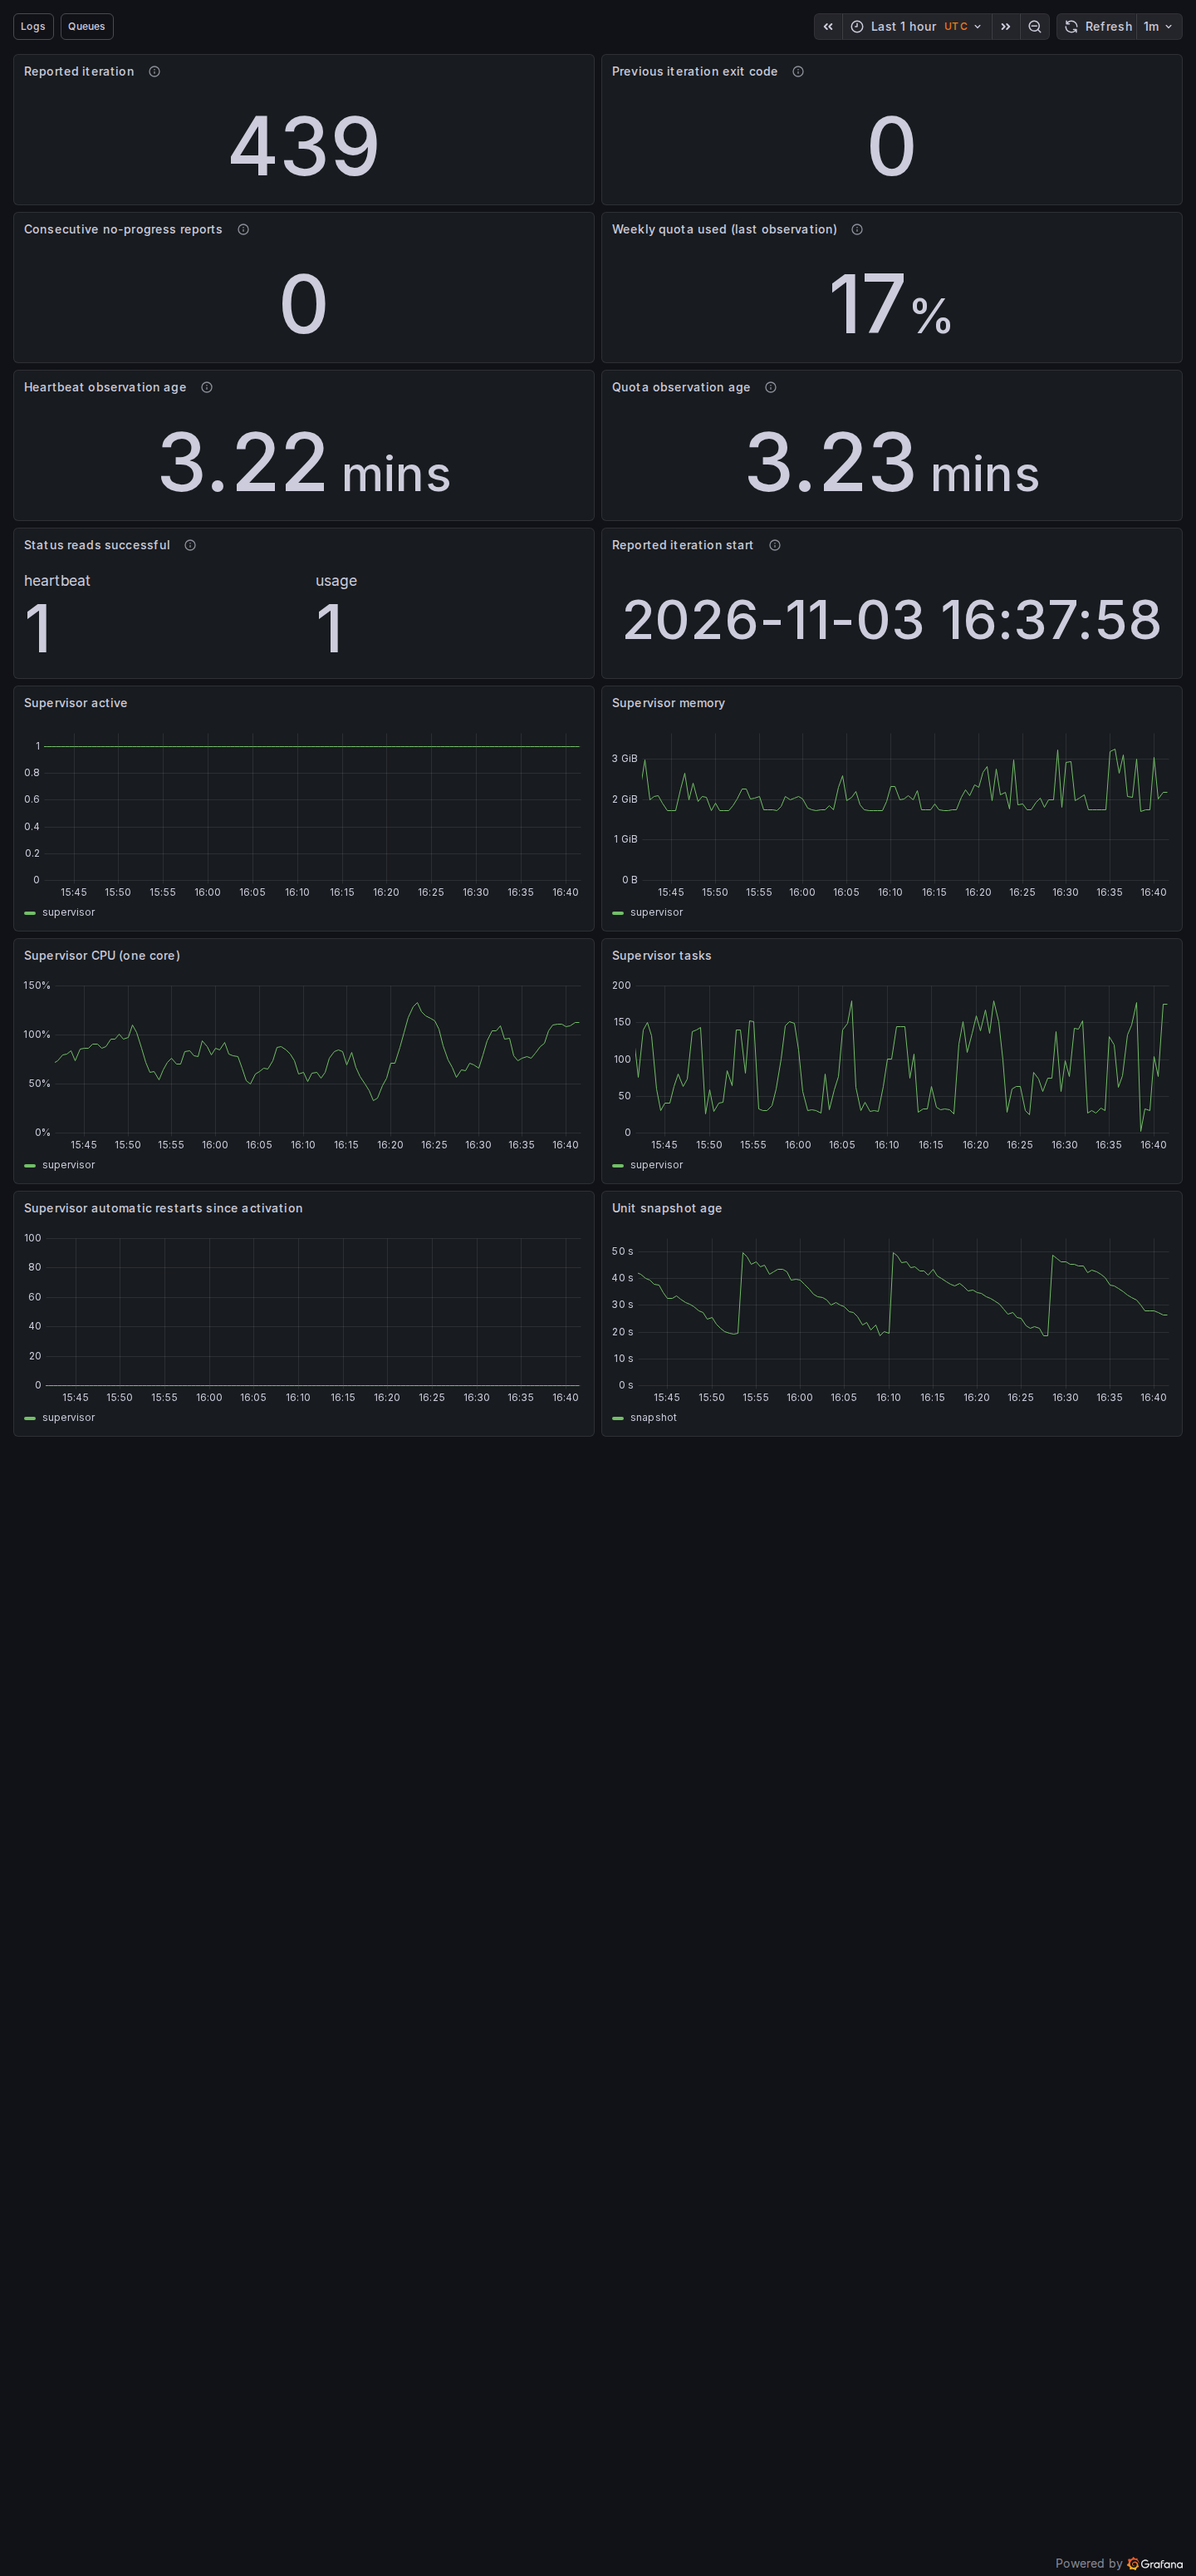
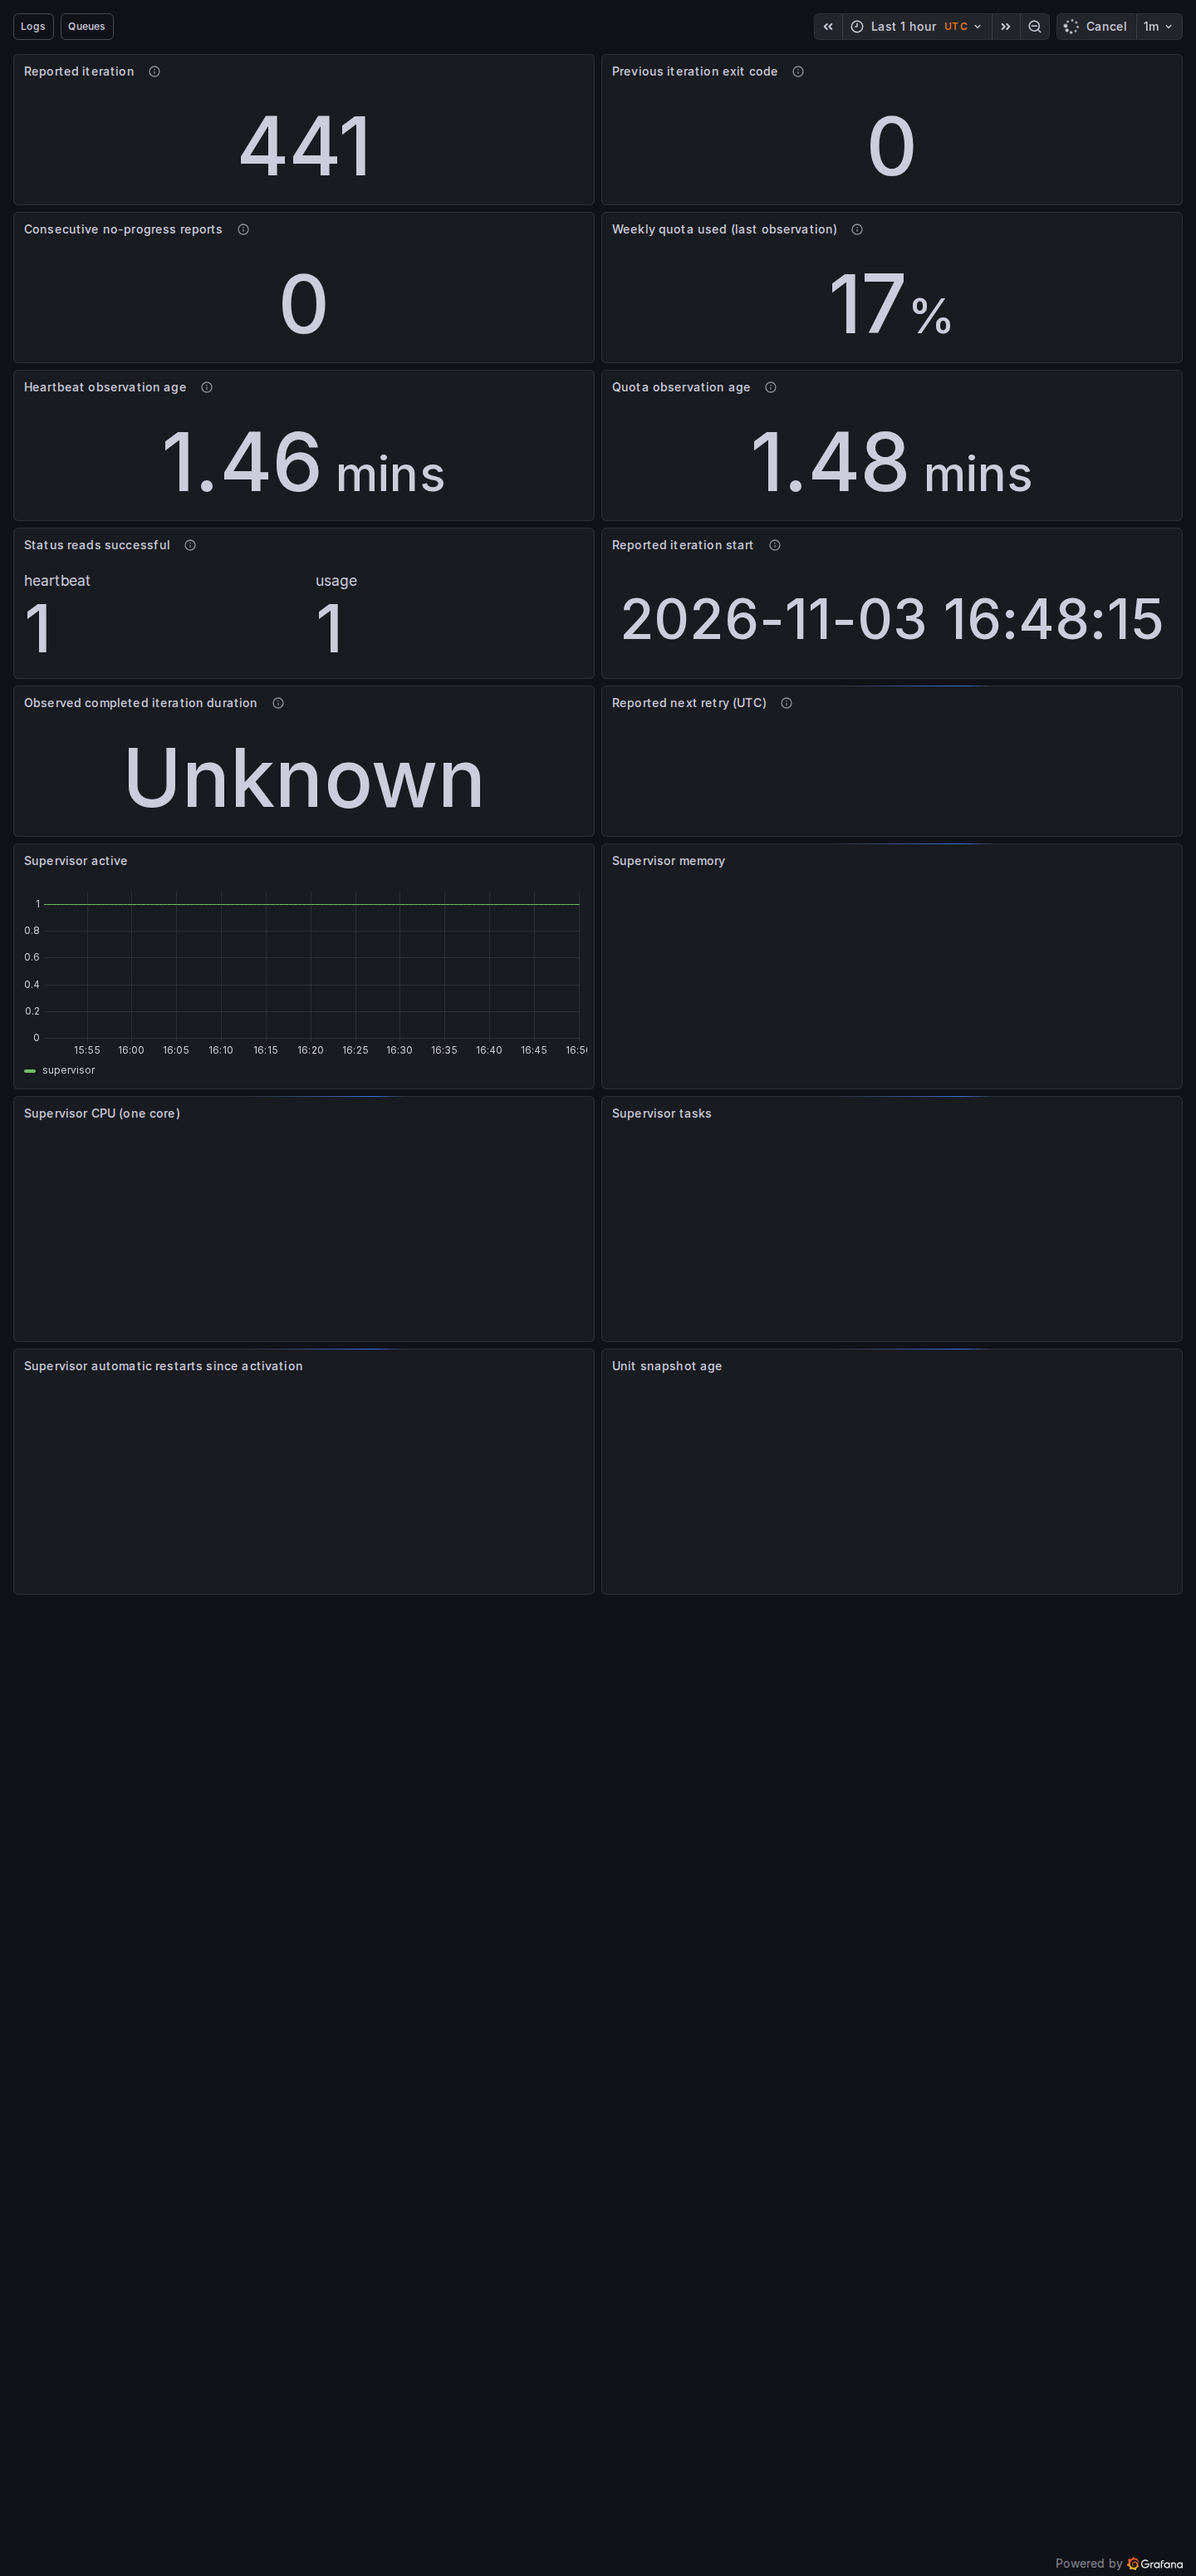
Show optional supervisor duration and retry observations in Grafana

diff --git a/scripts/lib/check-grafana.ts b/scripts/lib/check-grafana.ts
@@ -237,7 +237,13 @@ export async function checkGrafana() {
         assert.equal(result.status, 'success', panel.title);
         if (result.data.result.length > 0) populated++;
         if (dashboard.uid === 'nd-agent') {
-          assert.ok(result.data.result.length > 0, panel.title);
+          if (![15, 16].includes(panel.id))
+            assert.ok(result.data.result.length > 0, panel.title);
+          else {
+            assert.ok(result.data.result.length <= 1, panel.title);
+            assert.equal(panel.fieldConfig.defaults.noValue, 'Unknown');
+            assert.equal(panel.targets[0].instant, true);
+          }
           for (const series of result.data.result)
             assert.ok(Number.isFinite(Number(series.value[1])), panel.title);
         }
@@ -495,6 +501,8 @@ export async function checkGrafana() {
         'Weekly quota used (last observation)',
         'Status reads successful',
         'Reported iteration start',
+        'Observed completed iteration duration',
+        'Reported next retry (UTC)',
       ]) {
         const heading = page.getByRole('heading', { name: title, exact: true });
         for (
@@ -514,6 +522,15 @@ export async function checkGrafana() {
           .count(),
         0,
       );
+      await page
+        .getByRole('heading', {
+          name: 'Observed completed iteration duration',
+          exact: true,
+        })
+        .scrollIntoViewIfNeeded();
+      await page.screenshot({
+        path: 'docs/screenshots/grafana-agent-timing-mobile.png',
+      });
       await page.evaluate(() => window.scrollTo(0, 0));
       await page.mouse.wheel(0, -10000);
       await page.waitForTimeout(500);

diff --git a/docs/observability-plan.md b/docs/observability-plan.md
@@ -220,8 +220,8 @@ only when its check passes.
     redis_exporter. The Postgres restart is scheduled at least 2 h away from
     the edition.
   - **Done when:** the Database dashboard shows the top queries.
-- [ ] **O8 Agent harness metrics.** Done when the Agent dashboard is populated.
-  - Iteration 438: read-only bridge from bounded supervisor heartbeat/usage JSON into the existing atomic node_exporter textfile; no protected harness edits. Iteration, previous result, no-progress streak, start/finish/status timestamps and available weekly quota exposed, with per-file read-success. Offline malformed/privacy tests and live `--verify-o8` checks. Iteration 439 adds eight status/quota/freshness panels with explicit unknown values and read-only desktop/mobile verification. Iteration 440 adds optional completed duration from the same heartbeat’s valid start/finish and reported next-retry time, with offline timezone/reset/malformed cases and live collector checks. Running iterations remove duration; collector snapshots can miss brief completion states. Tokens, commits and cumulative pacing remain unavailable in bounded status; duration/retry dashboard presentation remains open. Never infer counters from systemd or stale heartbeat data.
+- [x] **O8 Agent harness metrics.** Done when the Agent dashboard is populated.
+  - Iteration 438: read-only bridge from bounded supervisor heartbeat/usage JSON into the existing atomic node_exporter textfile; no protected harness edits. Iteration, previous result, no-progress streak, start/finish/status timestamps and available weekly quota exposed, with per-file read-success. Offline malformed/privacy tests and live `--verify-o8` checks. Iteration 439 adds eight status/quota/freshness panels with explicit unknown values and read-only desktop/mobile verification. Iteration 440 adds optional completed duration from the same heartbeat’s valid start/finish and reported next-retry time, with offline timezone/reset/malformed cases and live collector checks. Running iterations remove duration; collector snapshots can miss brief completion states. Tokens, commits and cumulative pacing remain unavailable in bounded status; Iteration 441 adds duration/retry panels with explicit Unknown values and read-only desktop/mobile verification. O8 complete within the available bounded-status scope; unavailable counters are not inferred. Never infer counters from systemd or stale heartbeat data.
 - [ ] **O9 Alerts and `obs` CLI.**
   - Iteration 412: loopback-only, blackhole-notifier vmalert installed with 48 MiB/1% limits. Five rules cover >80% filesystem use, inactive monitored services, failed scrapes, stale/missing service snapshots and host memory pressure. `pnpm obs alerts` reports bounded pending/firing state; AGENTS requires it at iteration start. Synthetic rule fired through the deployed evaluator/CLI and was removed; disk threshold/duration/recovery tests and `--verify-alerts` pass. Job/error-rate/missed-edition/spend/per-service-budget rules remain before O9 completion. No external notifications or app/DB/Redis restarts.
   - Iteration 399: `pnpm obs` ships read-only logs/errors, instant metrics and queue-state queries. Literal message/service/edition filters, bounded log results and offline/runtime verification; alerts and start-of-iteration instructions remain pending. No O9 completion claim.

diff --git a/PROGRESS.md b/PROGRESS.md
@@ -141,3 +141,13 @@ Earlier entries: [progress archive](docs/progress-archive/).
 - pnpm format, pnpm lint:fix, pnpm check (275 unit/176 isolated integration), pnpm build, python3 ops/observability/test-harness-metrics.py, check-observability.ts --verify-o8 and check-handbook.ts 09-observability passed. No UI/diagram changes.
 - Installed only harness-metrics.py and ran obs-unit-metrics.service; timer active. App/DB/Redis unchanged. Zero alerts/dangling volumes; 32 healthy sources, queues available, all-topic articles/stored X. Latest real edition remains 19 stories/11 X posts; no paid calls/new editions.
 - TASKS/plan/handbook updated; archived iterations 426–427 to keep PROGRESS small. Next: scheduled product evidence first; otherwise O8 duration/retry presentation, then O10 browser errors.
+
+## 2026-11-03: iteration 441 — supervisor duration and retry presentation
+
+- Started clean on main; no leftovers. Alerts/health green; product acceptance still awaits the next scheduled edition. Finished O8 within available bounded-status scope under items 24/25.
+- Agent dashboard adds optional completed-iteration duration and reported next-retry UTC panels. Missing samples display Unknown; running iterations remove duration, brief completions may be missed, and retry timestamps can be stale. Tokens/commits/cumulative pacing remain unavailable and uninferred.
+- Read-only checker accepts missing optional samples but requires finite values when present, instant queries and explicit Unknown configuration. Desktop/mobile Playwright checks and three inspected screenshots cover the panels; 16 queries successful, 14 currently populated, two honestly unknown. Viewer grants and Grafana memory (197 MiB) verified.
+- Initial browser check caught provisioning reload lag; rerun passed after hot reload. Installed dashboard JSON only; no service restart needed under STEERING 22. Protected harness files unchanged.
+- pnpm format, pnpm lint:fix, pnpm check, pnpm build, check-observability.ts --verify-o8 --verify-grafana --grafana-agent-only and check-handbook.ts 09-observability passed. No diagram changes.
+- Healthy sources/queues, real articles and stored X across four topics; latest real edition remains Nov 3 15:03 UTC with four topics. Zero alerts/dangling volumes. No paid calls or new editions.
+- TASKS/plan/handbook updated. Next: scheduled social/latency evidence first; otherwise O10 browser errors. O8 is complete with the documented unavailable-counter limits.

diff --git a/TASKS.md b/TASKS.md
@@ -60,4 +60,4 @@ M0–M2; M3/M6/M7 foundations implemented.
 - [ ] STEERING 2a (lower priority): finish repository/HTTP characterization before ORM. Isolated DB/Redis, migrations, HTTP/worker and synthetic-AI goldens implemented (183–270); gaps: [database verification](docs/DATABASE-VERIFICATION.md). No live DB; finish 2a before ORM. Recorded-response golden open.
 - [ ] STEERING 2b (only after 2a is green): record Drizzle decision/schema parity, back up live DB, gradually replace raw SQL behind ports and enforce boundaries.
 
-- [ ] STEERING 24/25 (background while product blocked): [observability plan](docs/observability-plan.md). O1–O7/read-only CLI verified. O9 covers disk/memory, services/scrapes, failed jobs/API errors, spend/holds and observed-due schedule lifecycle gaps (412–419/435; 48-hour retention, scrape-history/edit caveats). O7 adds restricted top statement IDs/timing (436) and capped duration-only app slow-call logs (437; no SQL/parameters; isolated pool/transaction coverage). O8 read-only heartbeat/quota bridge and eight status/freshness dashboard panels verified (438–439); Optional completed-duration/retry gauges added (440); running iterations remove duration, brief completion states may be missed. Tokens/commits/cumulative pacing unavailable in bounded status. Next: O8 duration/retry presentation, then O10 browser errors. Stop refining existing CLI/dashboards; preserve resource caps and scheduled-run protection.
+- [ ] STEERING 24/25 (background while product blocked): [observability plan](docs/observability-plan.md). O1–O7/read-only CLI verified. O9 covers disk/memory, services/scrapes, failed jobs/API errors, spend/holds and observed-due schedule lifecycle gaps (412–419/435; 48-hour retention, scrape-history/edit caveats). O7 adds restricted top statement IDs/timing (436) and capped duration-only app slow-call logs (437; no SQL/parameters; isolated pool/transaction coverage). O8 read-only heartbeat/quota bridge and eight status/freshness dashboard panels verified (438–439); Optional completed-duration/retry gauges added (440); running iterations remove duration, brief completion states may be missed. Tokens/commits/cumulative pacing unavailable in bounded status. O8 duration/retry panels complete (441), with Unknown for absent observations; unavailable counters remain uninferred. Next: O10 browser errors. Stop refining existing CLI/dashboards; preserve resource caps and scheduled-run protection.

diff --git a/docs/handbook/01-app/09-observability.md b/docs/handbook/01-app/09-observability.md
@@ -357,6 +357,8 @@ or content jobs are triggered. Reader privileges and denied access to cache/arti
 text are also checked. Database top-query timing and available supervisor status are included;
 agent tokens, commits and cumulative pacing measurements remain unavailable.
 
+Agent supervisor also shows optional completed-iteration duration and reported next retry in UTC. Missing observations display Unknown. Duration disappears while an iteration runs; brief completion states may be missed. Retry time may be stale and does not establish an active wait.
+
 Agent supervisor shows the build unit's active state, cgroup memory, CPU,
 task count and automatic restarts since activation, using existing unit samples.
 The cgroup includes child processes, so builds and tests contribute to these
